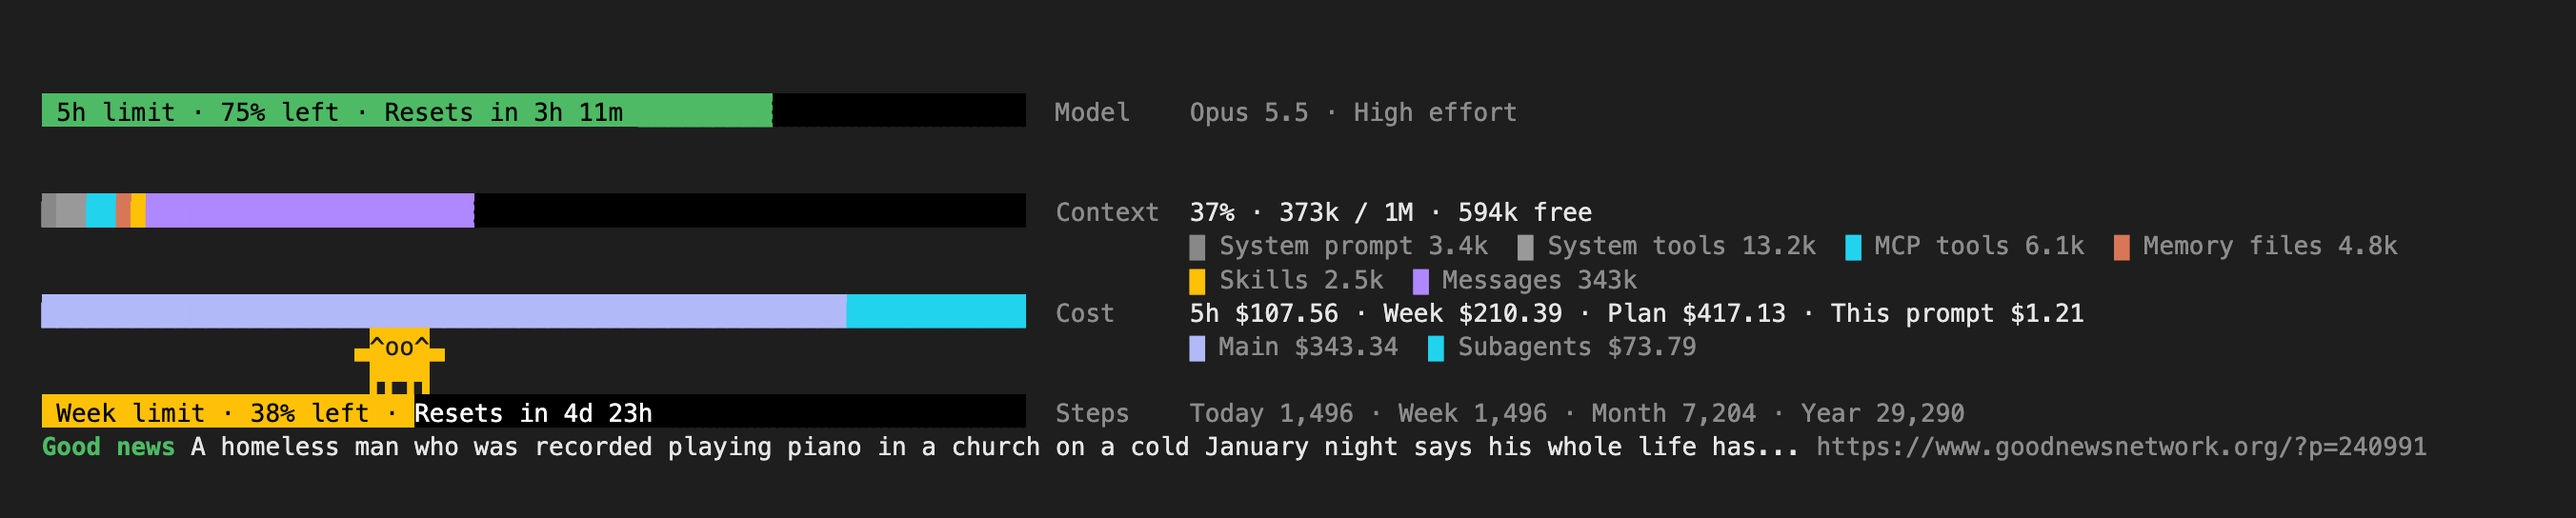
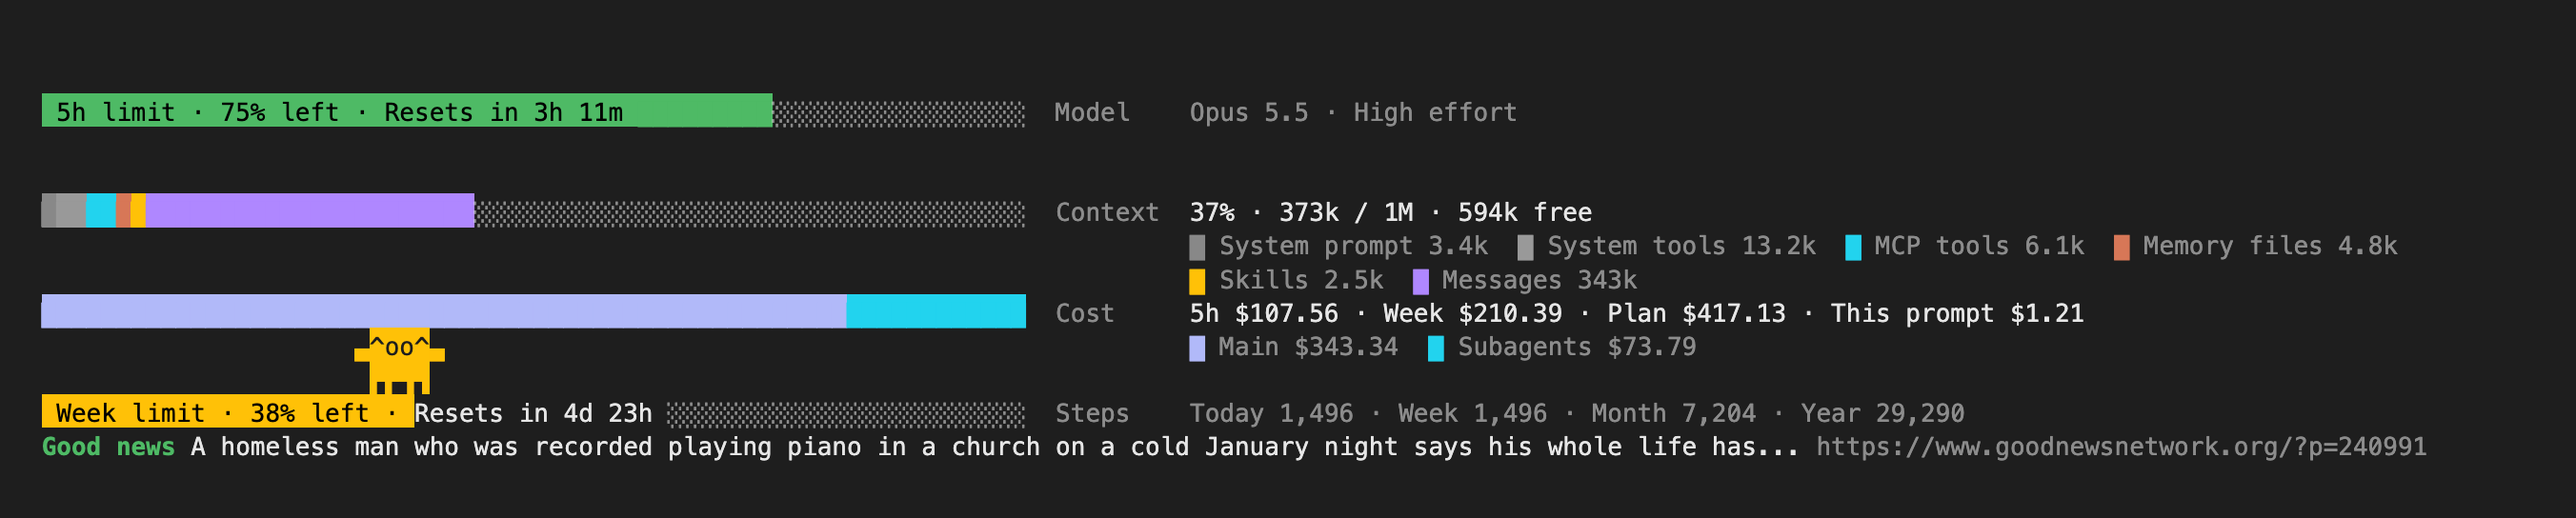
What is free or gone in a bar has no colour of its own
The empty part of a bar was black with white words over it. That read on a dark terminal and looked
wrong on a light one. It is now a faint shade drawn dim in the terminal's own text colour, with no
ground, and the words over it are the terminal's own text: it reads on a light terminal and a dark
one, whatever the theme, and no colour on the band is one of the mod's own choosing. What fills a bar
is still drawn as background, so it is one height along its length.

Changed region(s): [[0.1553, 0.75, 0.4038, 0.8438], [0.1864, 0.375, 0.4038, 0.4375], [0.2796, 0.1562, 0.4038, 0.25]]

diff --git a/penny-patrol/tests/penny-patrol.test.ts b/penny-patrol/tests/penny-patrol.test.ts
@@ -13,10 +13,7 @@ const FOLDER = `${HOME}/.penny-patrol`
 const BUFFER = 33_000
 const FIXED = 20_000 // system prompt + system tools
 const NOTHING = 'nothing drawn'
-// What a bar's free or spent stretch is drawn on (black, whatever the theme), the white of the words over
-// it, and the colour of words cut out of a part.
-const TRACK = '#000000'
-const TRACK_WORD = '#ffffff'
+// The colour of words cut out of a part of a bar. (What is free or gone has no colour of its own.)
 const WORD = 'inverseText'
 // The mascot as text: its face between its arms, and its legs apart, then together.
 const faced = (face: string): string => `▄${face}▄`
@@ -224,8 +221,14 @@ const piecesOf = (el: El): Array<{ text: string; color: unknown; ground: unknown
     isBold: run.props?.bold === true,
     href: run.props?.href,
   }))
-// A bar as drawn: each stretch's text, the ground it is drawn on, and the colour of its glyphs.
-const barOf = (el: El): Array<[string, unknown, unknown]> => piecesOf(el).filter(piece => piece.ground !== undefined).map(piece => [piece.text, piece.ground, piece.color])
+// A bar as drawn: each stretch's text, the ground it is drawn on (none for what is free or gone), and the
+// colour of its glyphs. The bar is what stands before the two blank cells that part it from its line.
+const barOf = (el: El): Array<[string, unknown, unknown]> => {
+  const pieces = piecesOf(el)
+  const end = pieces.findIndex(piece => piece.text === '  ' && piece.ground === undefined)
+
+  return pieces.slice(0, end < 0 ? pieces.length : end).map(piece => [piece.text, piece.ground, piece.color])
+}
 // The scene's width in a band of `columns`, as the mod lays it out: two fifths of what the padding
 // leaves, the rest (to 136 cells) being the readout's, two cells between them.
 const trackOf = (columns: number): number => columns - 4 - Math.min(136, columns - 4 - Math.floor((columns - 2) * 0.4))
@@ -324,7 +327,7 @@ test('the scene and the readout: a limit first with the model beside it, the con
   expect(Math.max(...lines.map(line => line.length))).toBeLessThanOrEqual(118)
 })
 
-test('every cell of a bar is drawn as background: a part in its colour, what is free in black; the autocompact buffer is no part of the bar', SLOW, async ($, on) => {
+test('a part of a bar is drawn as background in its colour, what is free as a faint shade with no colour of its own; the autocompact buffer is no part of the bar', SLOW, async ($, on) => {
   engine(on)
   await begin($)
   const ui = await mount($, 120)
@@ -337,8 +340,10 @@ test('every cell of a bar is drawn as background: a part in its colour, what is 
     ['█', 'promptBorder', 'promptBorder'],
     ['█', 'inactive', 'inactive'],
     ['█', 'purple', 'purple'],
-    ['░', TRACK, TRACK],
+    ['░', undefined, undefined],
   ])
+  // What is free is the terminal's own text colour, dim: it reads on a light terminal and a dark one.
+  expect(piecesOf(rows[2]!).slice(0, 4).map(piece => piece.isDim)).toEqual([false, false, false, true])
   // Forty-seven cells for 4k, 16k and 40k in use and 107k free, each part keeping a cell.
   expect(barOf(rows[2]!).map(([text]) => text.length)).toEqual([2, 5, 11, 29])
   // The legend's swatches are the bar's, and it has no entry for the buffer either: nothing is under it.
@@ -934,19 +939,21 @@ test('a limit bar shows what is left of its window, draining, in the colour of h
   expect(rows).toHaveLength(9)
   expect([2, 8].map(i => saidOf(textOf(rows[i]!), 120))).toEqual(['Model    test-model', 'Steps    Today 0 · Week 0 · Month 0 · Year 0'])
   // What is left is the filled part: green above half, red under a fifth. The words are cut out of it
-  // in the colour for that; over what is gone they are white on black, and the rest of what is gone is
-  // black alone.
+  // in the colour for that. What is gone has no colour of its own: the words over it are the terminal's
+  // plain text, and the rest of it a dim shade.
   expect(barOf(rows[2]!)).toEqual([
     [' 5h limit · 60% left · Reset', 'success', WORD],
-    ['s in 1h 20m ', TRACK, TRACK_WORD],
-    ['░'.repeat(7), TRACK, TRACK],
+    ['s in 1h 20m ', undefined, undefined],
+    ['░'.repeat(7), undefined, undefined],
   ])
   expect(barOf(rows[8]!)).toEqual([
     [' Week li', 'error', WORD],
-    ['mit · 15% left · Resets in 3d 5h ', TRACK, TRACK_WORD],
-    ['░'.repeat(6), TRACK, TRACK],
+    ['mit · 15% left · Resets in 3d 5h ', undefined, undefined],
+    ['░'.repeat(6), undefined, undefined],
   ])
-  expect([TRACK, TRACK_WORD]).toEqual(['#000000', '#ffffff'])
+  expect([2, 8].map(i => piecesOf(rows[i]!).slice(1, 3).map(piece => piece.isDim))).toEqual([[false, true], [false, true]])
+  // No colour anywhere on the band is one of the mod's own choosing: each is the theme's, or none.
+  expect(JSON.stringify(await ui.drawn())).not.toMatch(/#[0-9a-fA-F]{3,8}|rgb\(/)
   // Written for the other sessions, stamped with when it was read.
   expect(fileOf(world, 'limits.json')).toMatchObject({ at: NOW, windows: [{ kind: 'five_hour', percentUsed: 40 }, { kind: 'seven_day' }] })
 })
@@ -1014,14 +1021,14 @@ test('an account with no limit window gets the month\'s spend: growing, or drain
     return { bar: sceneOf(textOf(found), 120), said: saidOf(textOf(found), 120), ground: barOf(found)[0]?.[1] }
   }
   // Nothing spent since tracking began: an empty bar toward the first round figure.
-  expect(await month()).toEqual({ bar: ` Month · $0.00 spent · Bar full at $1.00 ${'░'.repeat(6)}`, said: '', ground: TRACK })
+  expect(await month()).toEqual({ bar: ` Month · $0.00 spent · Bar full at $1.00 ${'░'.repeat(6)}`, said: '', ground: undefined })
 
   await turnStart($, 'spend')
   world.usd = 103.04
   await turnEnd($)
   expect(await month()).toEqual({ bar: ` Month · $3.04 spent · Bar full at $5.00 ${'░'.repeat(6)}`, said: '', ground: 'permission' })
   // Twenty-eight of the forty-seven cells are spent: $3.04 of $5.00.
-  expect(barOf((await rowsOf(ui))[8]!).map(([text, ground]) => [text.length, ground])).toEqual([[28, 'permission'], [13, TRACK], [6, TRACK]])
+  expect(barOf((await rowsOf(ui))[8]!).map(([text, ground]) => [text.length, ground])).toEqual([[28, 'permission'], [13, undefined], [6, undefined]])
 
   expect((await command($, 'budget')).text).toContain('not set')
   expect((await command($, 'budget 8,000')).text).toContain('Budget set: $8,000.00 a month')

diff --git a/penny-patrol/hooks/penny-patrol.ts b/penny-patrol/hooks/penny-patrol.ts
@@ -159,15 +159,16 @@ const RENEWED_MS = 30 * 60_000
 const RENEWED_POINTS = 1
 // A redraw a minute keeps the countdowns moving while nothing else does.
 const REDRAW_EVERY_TICKS = 60
-// Single-width block characters: they line up in every terminal font. A bar's cells are drawn as
-// BACKGROUND (see runsOf), so these are what a copy of the band carries, and only the shade shows.
+// Single-width block characters: they line up in every terminal font. A part of a bar is drawn as
+// BACKGROUND (see paintOf), so its block is what a copy of the band carries; what is free or gone is
+// drawn as its shade.
 const GLYPH: Record<Kind, string> = { used: '█', free: '░', buffer: '▒' }
 const SHADE = '▒'
-// What is free or gone in a bar is black, and the words over it white, whatever the theme: a theme's own
-// quiet colours are light in a light theme, and the terminal under it may be dark. Words cut out of a
-// part take the theme's colour for text on a colour.
-const TRACK = '#000000'
-const TRACK_WORD = '#ffffff'
+// What is free or gone in a bar has no colour of its own: it is a faint shade in the terminal's own text
+// colour, and the words over it are the terminal's own text, so it reads as an empty track on a light
+// terminal and on a dark one, whatever the theme (a theme's quiet colours are right only where the
+// terminal under it matches the theme). Words cut out of a part take the theme's colour for text on a
+// colour.
 const WORD = 'inverseText'
 const ORDER: Kind[] = ['used', 'free', 'buffer']
 const EMPTY: Cell = { glyph: '░', color: 'inactive', isDim: true, isTight: false }
@@ -2299,18 +2300,18 @@ function wordedCells(gauge: Gauge, width: number): Cell[] {
   })
 }
 
-// How a cell of a bar is drawn. Every cell is BACKGROUND, so a bar is one height along its length whatever
-// the terminal's line spacing, and the mascot stands on it: a part in its own colour, what is free or gone
-// in the track's black, each with its block glyph in that same colour (a copy of the band still carries
-// it). A shaded part shows its glyph over the track. A word written in the bar is cut out of a part, and
-// stands white over the track.
-function paintOf(cell: Cell): { backgroundColor: string; color?: string } {
+// How a cell of a bar is drawn. A part is BACKGROUND in its own colour, so what fills a bar is one height
+// along its length whatever the terminal's line spacing, and the mascot stands on it; its block glyph is
+// in that same colour (a copy of the band still carries it), and a word written in it is cut out of it.
+// What is free or gone has no ground: its shade is drawn dim and a word over it plain, both in the
+// terminal's own colour. A shaded part is its glyph in its colour.
+function paintOf(cell: Cell): { backgroundColor?: string; color?: string; dimColor?: boolean } {
   if (cell.isDim || cell.color === undefined) {
-    return { backgroundColor: TRACK, color: cell.isWord === true ? TRACK_WORD : TRACK }
+    return cell.isWord === true ? {} : { dimColor: true }
   }
 
   if (cell.glyph === SHADE) {
-    return { backgroundColor: TRACK, color: cell.color }
+    return { color: cell.color }
   }
 
   return { backgroundColor: cell.color, color: cell.isWord === true ? WORD : cell.color }
@@ -2329,7 +2330,7 @@ function runsOf(Text: Text, cells: Cell[]): RenderElement[] {
       const paint = paintOf(from)
       const next = to ? paintOf(to) : null
 
-      if (next === null || next.backgroundColor !== paint.backgroundColor || next.color !== paint.color) {
+      if (next === null || next.backgroundColor !== paint.backgroundColor || next.color !== paint.color || next.dimColor !== paint.dimColor) {
         runs.push(Text({ ...paint, children: cells.slice(start, i).map(cell => cell.glyph).join('') }))
         start = i
       }

diff --git a/README.md b/README.md
@@ -59,15 +59,16 @@ model and the steps stand over the context bar, and the cost is the session's to
 **The limit bars** are one bar for each window your account reports, each with what is left written in
 it: `5h limit · 75% left · Resets in 3h 32m`, `Week limit · 38% left · Resets in 5d 0h`. The coloured
 part is what is *left*, so the bar drains as you use the window: green above half, amber down to a fifth,
-red below. What is gone is black, and the words over it white, whatever your theme. Where the bar is
-short, what it says is shorter (`5h limit · 75% left`).
+red below. What is gone has no colour of its own: it is a faint shade, and the words over it are your
+terminal's ordinary text, so it reads on a light terminal and on a dark one. Where the bar is short,
+what it says is shorter (`5h limit · 75% left`).
 
 An account billed by the API has no such window. It gets the month's spend instead: a bar that grows
 toward the next round figure (`Month · $612.40 spent · Bar full at $1,000.00`) or, once you give it a
 budget, drains that (`Month budget · $7,388.00 left of $8,000.00`).
 
 **The context bar** is the room there is before Claude Code compacts. What is in use comes first, one
-colour for each category; what is free is black. So a full bar means compaction is due. (Claude Code
+colour for each category; what is free is a faint shade. So a full bar means compaction is due. (Claude Code
 keeps a buffer at the end of the window for that compaction. It is no room of yours, and is not drawn.)
 
 *Messages* is the conversation itself: your prompts, Claude's replies and thinking, every tool call and
@@ -361,8 +362,9 @@ it sends nothing of yours anywhere.
 - While nothing runs the band is drawn again once a minute, so the reset times keep moving. The line
   turns only while something runs.
 - A bar is drawn as a solid band of colour, so it is one height along its length and the words in a limit
-  bar sit inside it. What is free or gone is black, with white words over it, on any theme. A copy of the
-  band still carries block characters for it.
+  bar sit inside it. What is free or gone is a faint shade in your terminal's own text colour, with no
+  colour of the mod's choosing, so it reads whatever your theme. A copy of the band still carries block
+  characters for it.
 - The `[-]` beside the band collapses it; `/penny-patrol` hides it.
 - The jokes and stories read from the web are other people's: icanhazdadjoke.com, JokeAPI, and the
   seven outlets named above, each story in the outlet's own words with a link to it. The notes that come with
